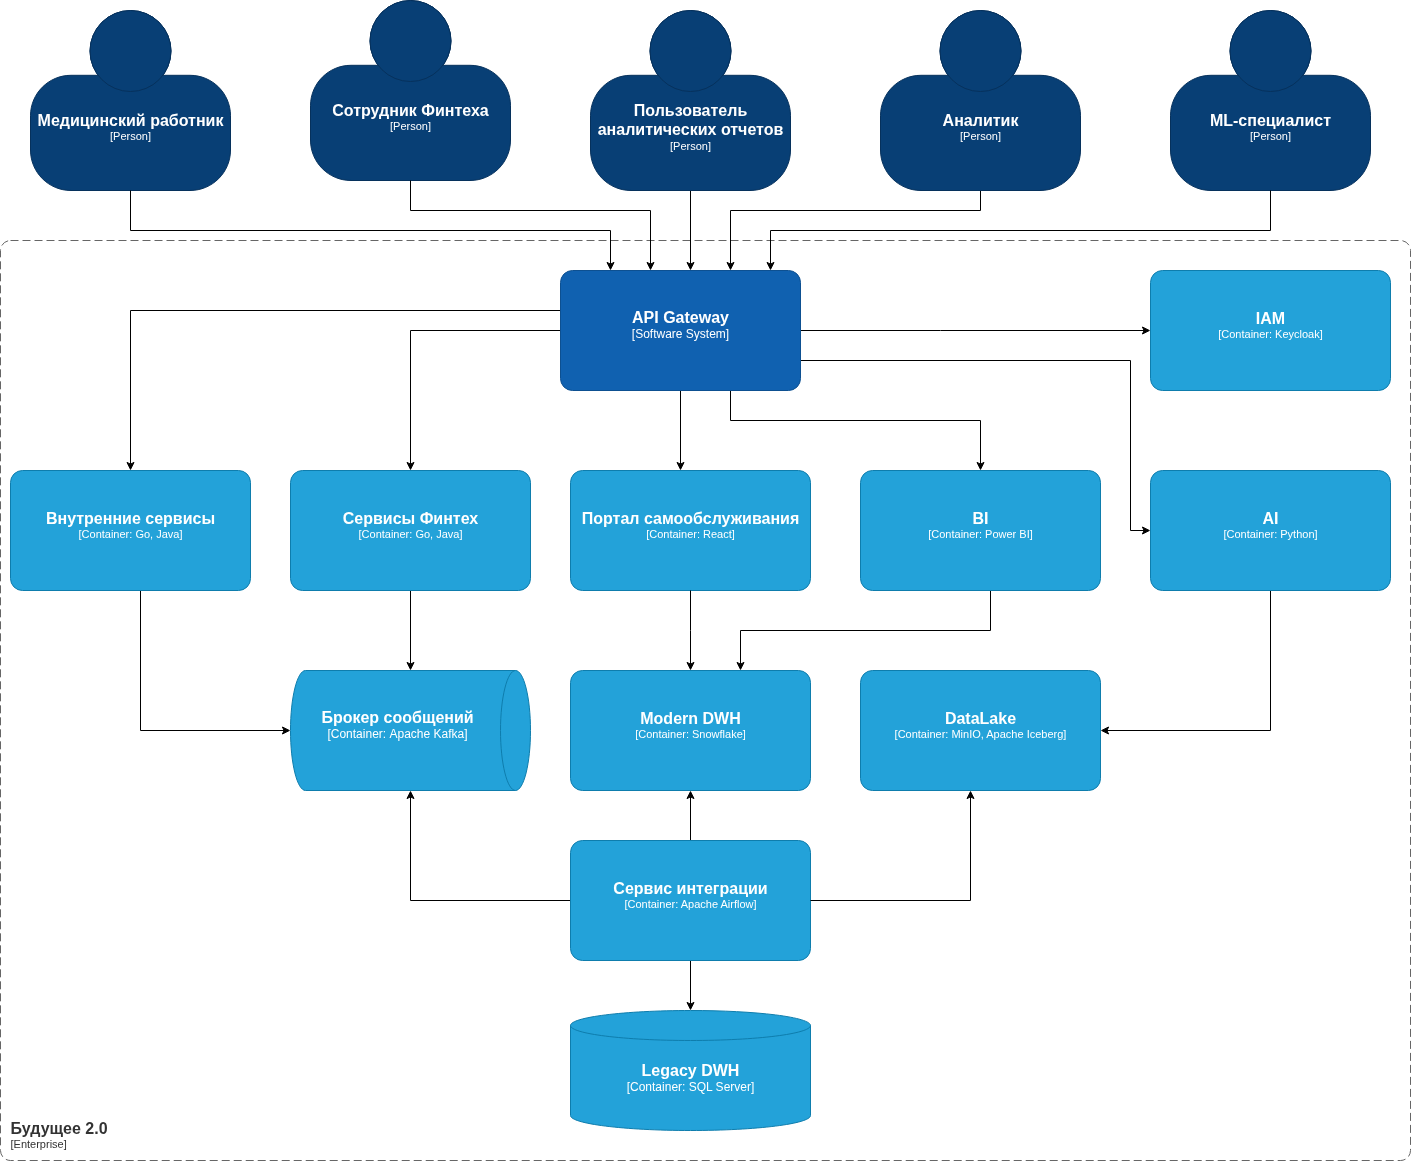
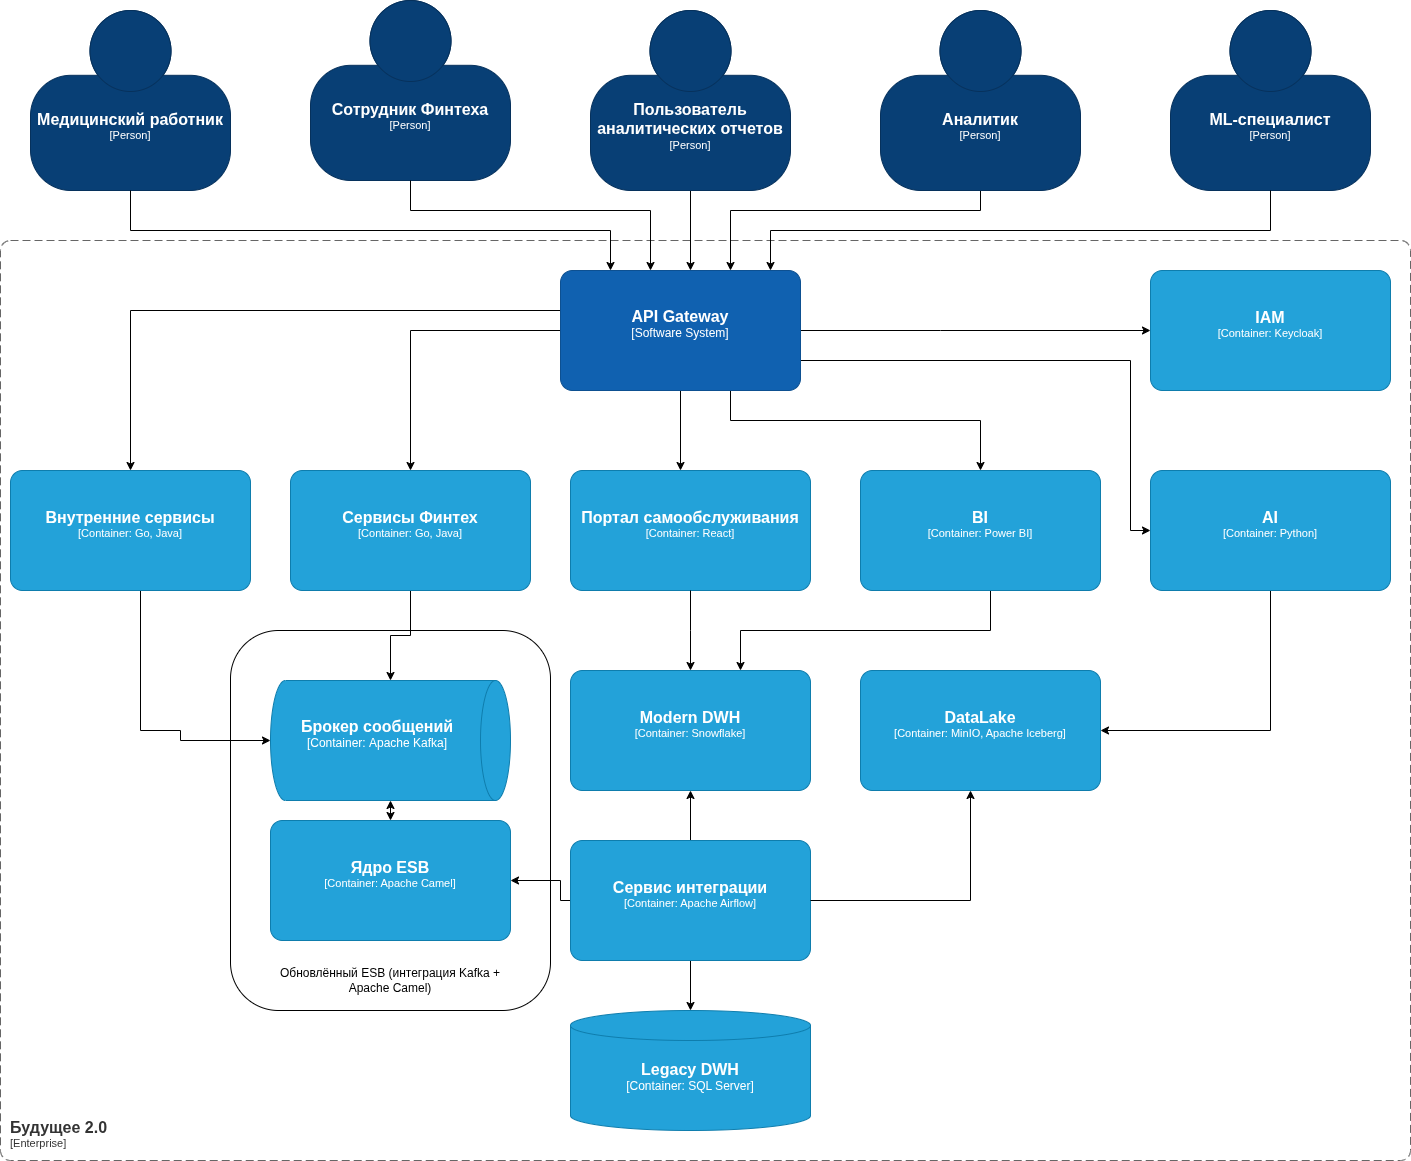
Правки по заданию 1

diff --git a/Task1/README.md b/Task1/README.md
@@ -15,8 +15,8 @@
 ### 3. Расстановка приоритетов по методу MoSCoW  
 
 | Категория  | Планируемые изменения                                                                                                                                                                                |
-| ---------- | ---------------------------------------------------------------------------------------------------------------------------------------------------------------------------------------------------- |
+| ---------- |------------------------------------------------------------------------------------------------------------------------------------------------------------------------------------------------------|
 | **Must**   | - Миграция DWH в облачную MPP-платформу Snowflake для масштабируемости <br>- Внедрение Data Catalog и системы управления доступом IAM <br>- Унификация ELT-процессов Apache Airflow для всех доменов |
-| **Should** | - Замена Apache Camel на Kafka  для улучшения трассировки и скорости обработки данных                                                                                                                |
+| **Should** | - Интеграция Apache Camel с Kafka для улучшения трассировки и скорости обработки данных. Это также позволит значительно повысить отказоустойчивость системы.                                         |
 | **Could**  | - Разработка нового веб-интерфейса для клиник React с интеграцией в портал <br>- Внедрение data-mesh для изоляции бизнес-доменов                                                                     |
 | **Won’t**  | - Полная одномоментная миграция, слишком высокие риски и длительные сроки                                                                                                                            |
